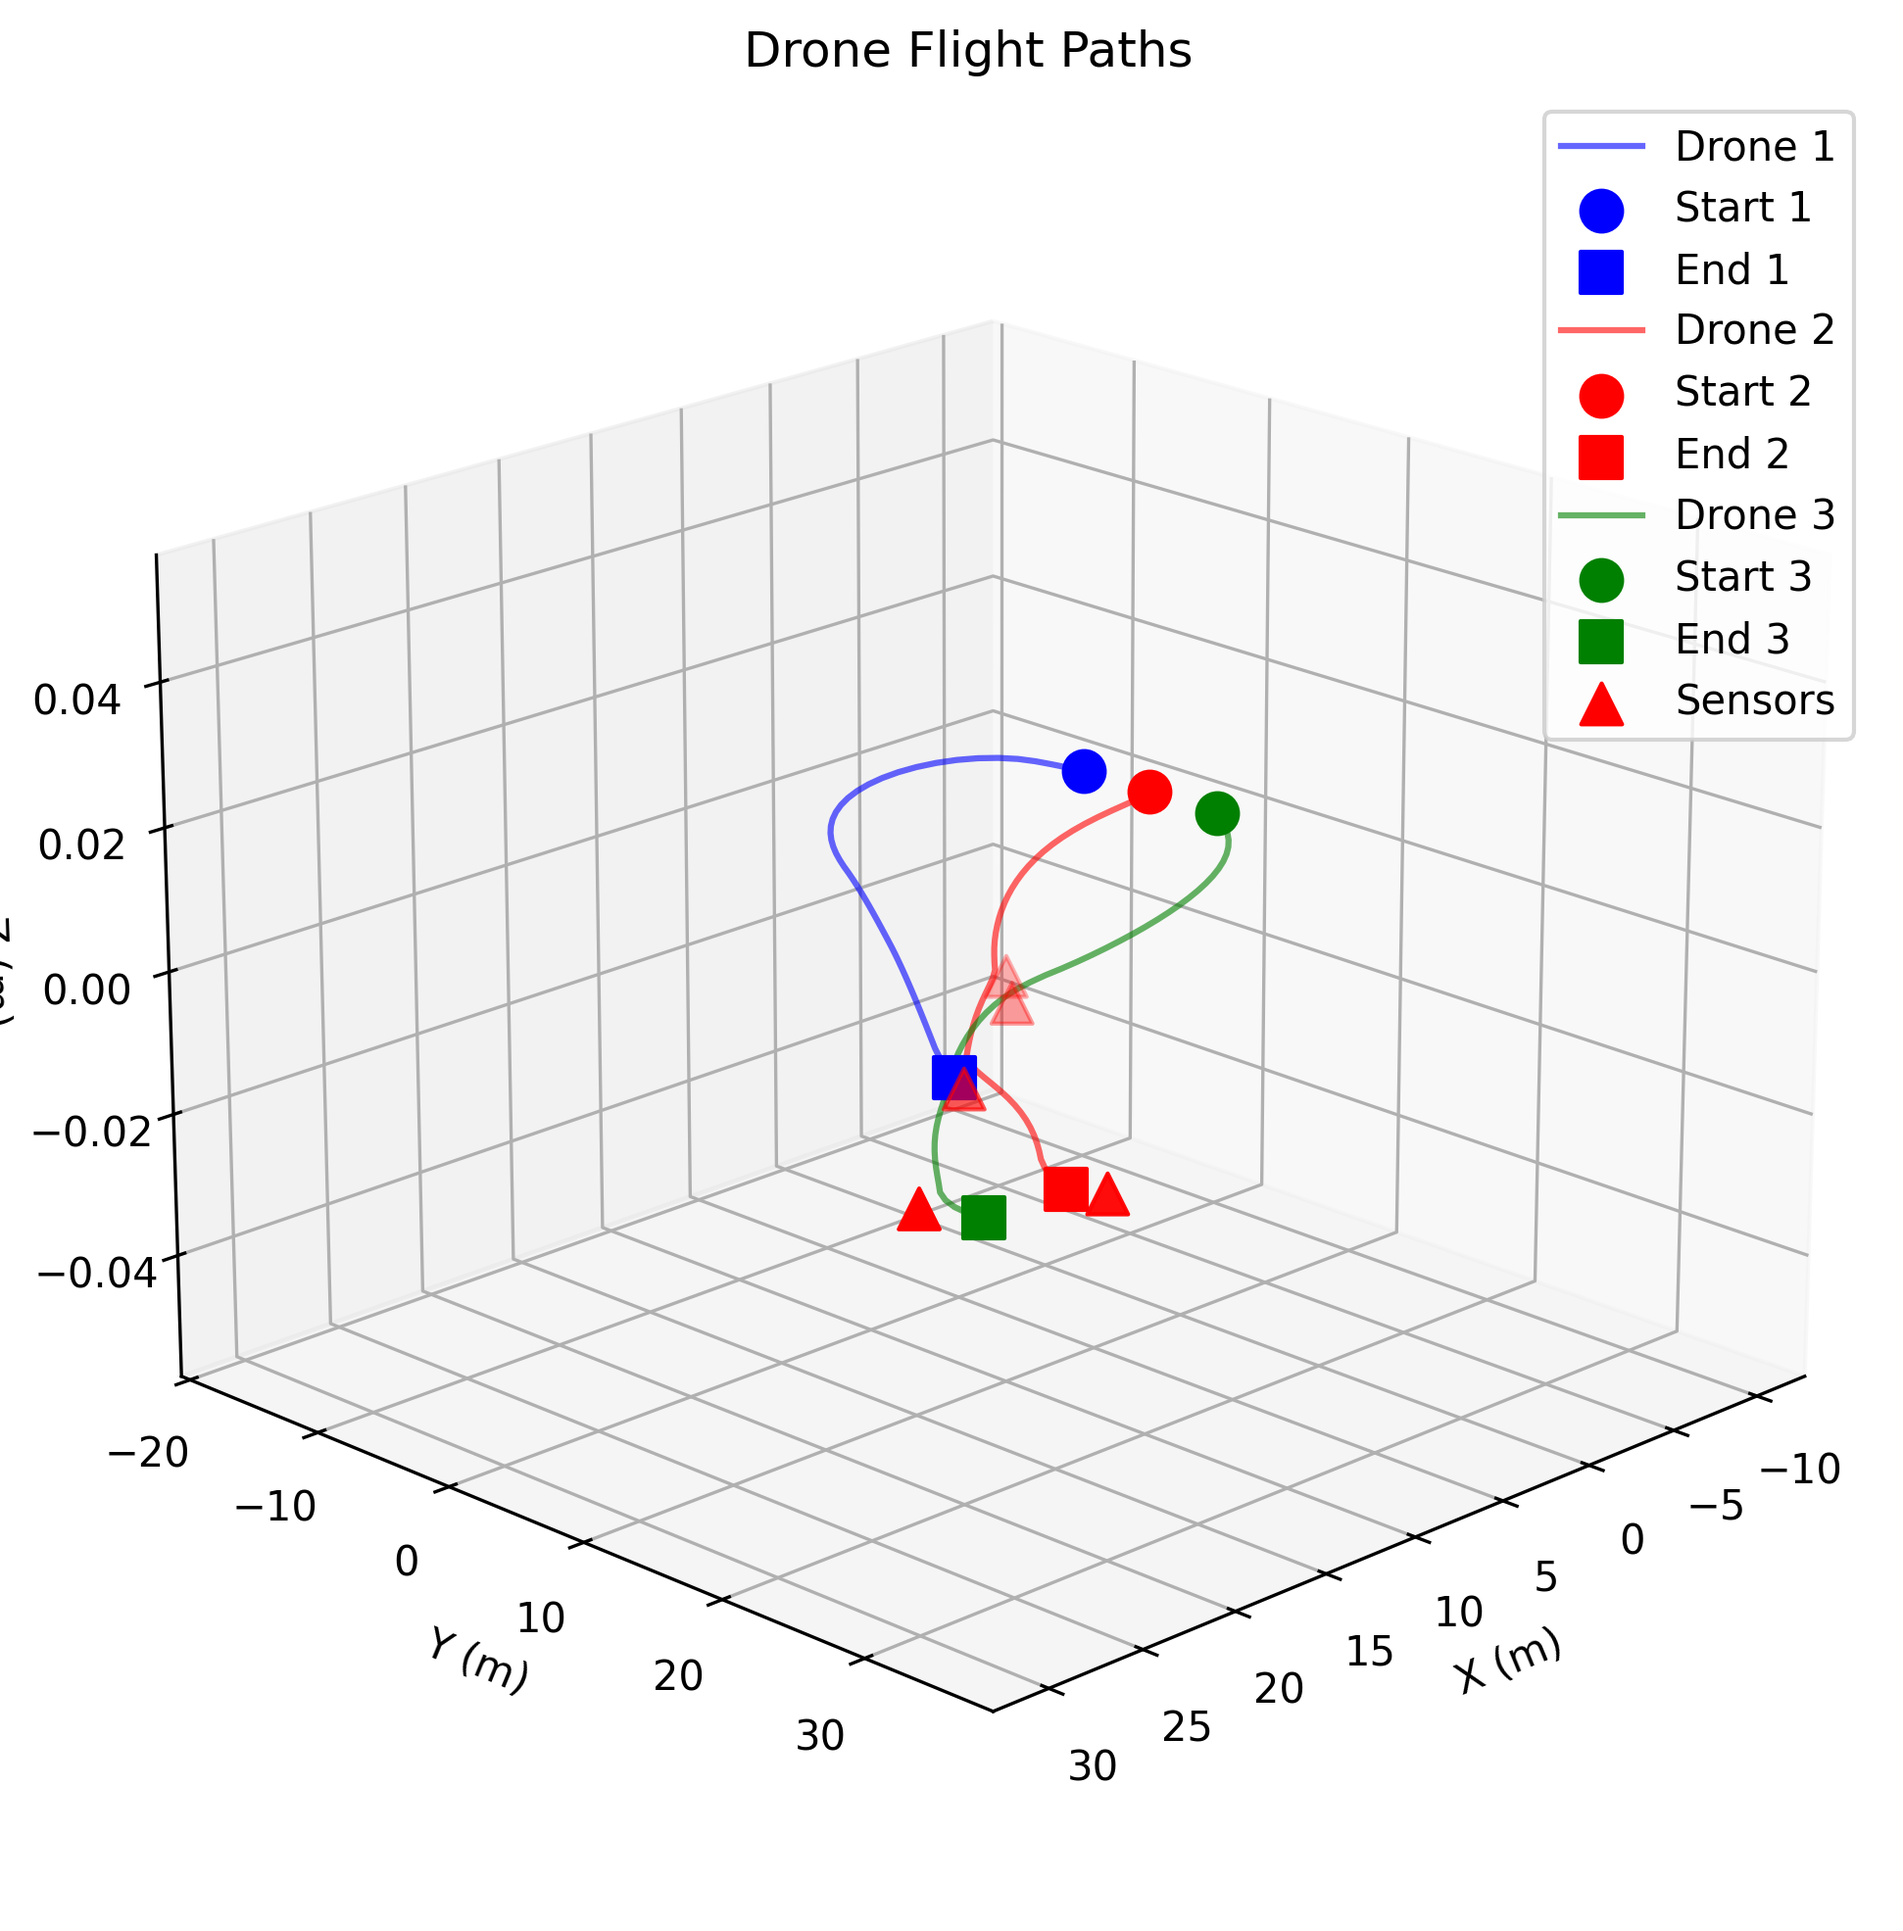
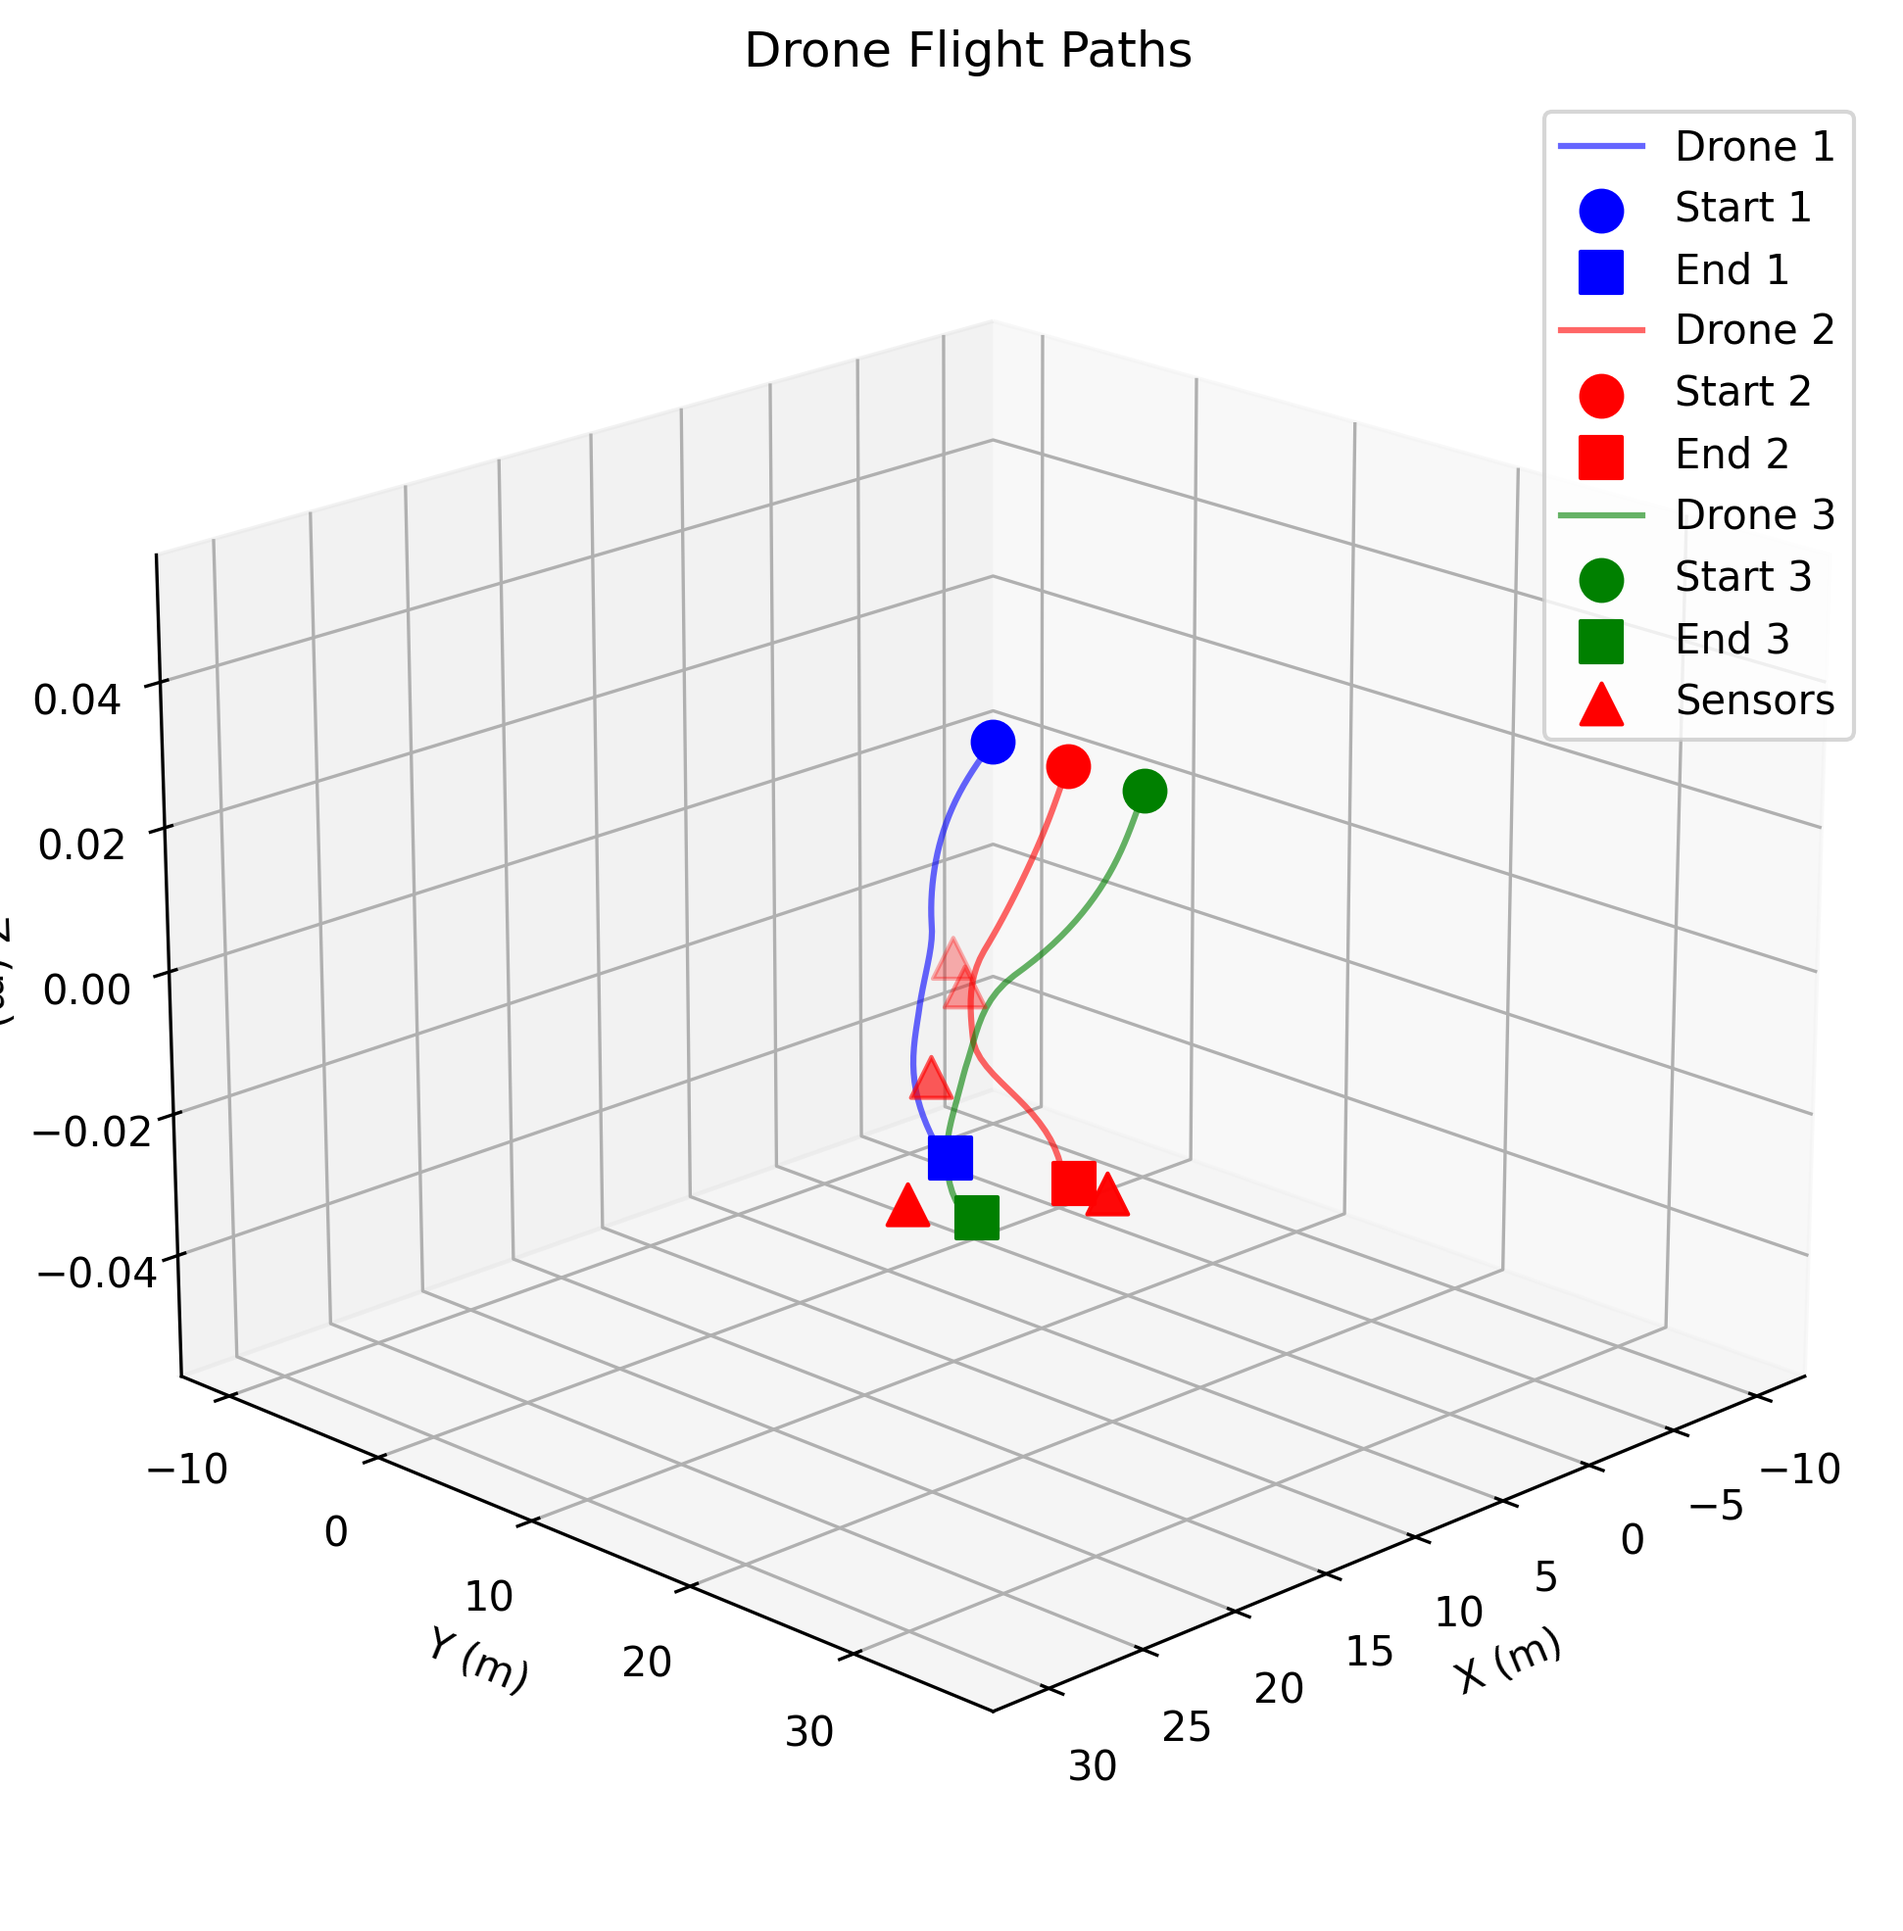
ga

diff --git a/main.py b/main.py
@@ -61,15 +61,17 @@ def plot_drone_paths(drone_paths, sensor_positions=None, save_path=None):
     if save_path:
         plt.savefig(save_path, dpi=300, bbox_inches='tight')
     
-    # plt.show()
+    plt.show()
 
 if __name__ == "__main__":
     sensor_positions = np.array([
-    [10, 10, 0],
-    [20, 20, 0],
+    [6, 17, 0],
+    [20, 52, 0],
     [30, 30, 0],
+    [40,10,0],
     [12, 13, 0],
     [24, 35, 0],
+    
 
 ])
 
@@ -84,4 +86,4 @@ if __name__ == "__main__":
     drone_paths = [agent.path for agent in planner.agents]  
       
 
-    plot_drone_paths(drone_paths, sensor_positions,"drone_paths.png")
+    plot_drone_paths(drone_paths, sensor_positions)

diff --git a/utils.py b/utils.py
@@ -41,7 +41,7 @@ class PathPlanner:
         # Initialize drones at starting positions
         self.agents = []
         for i in range(n_drones):
-            start_pos = np.array([-10, -10 + i*5, 0])  # Staggered starting positions
+            start_pos = np.array([-10, -10 + i*5, 0])  #set drone initial place
             self.agents.append(Agent(start_pos))
             
         self.unscanned_sensors = list(range(len(sensor_positions)))

diff --git a/readme.md b/readme.md
@@ -1,4 +1,4 @@
-### Path Planning by Genetic Algorithm inspried by the Phsics
+### Path Planning by Genetic Algorithm inspried by the Physics
 ----------
 
 _Here are three class used here to implement this path planing, which are `Agent`, `PathPlanner`, `GeneticOptimizer`._
